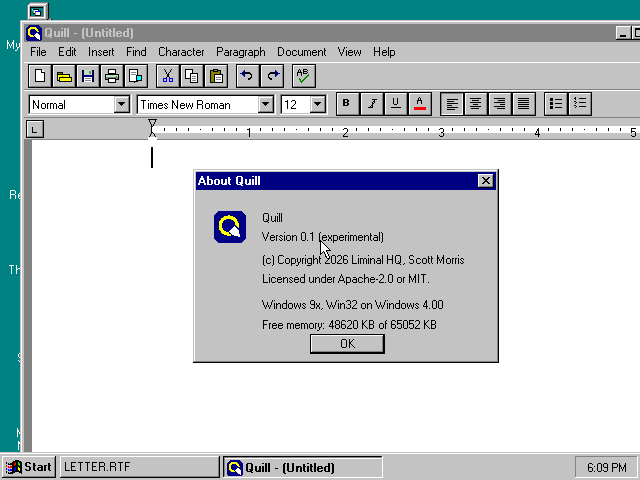
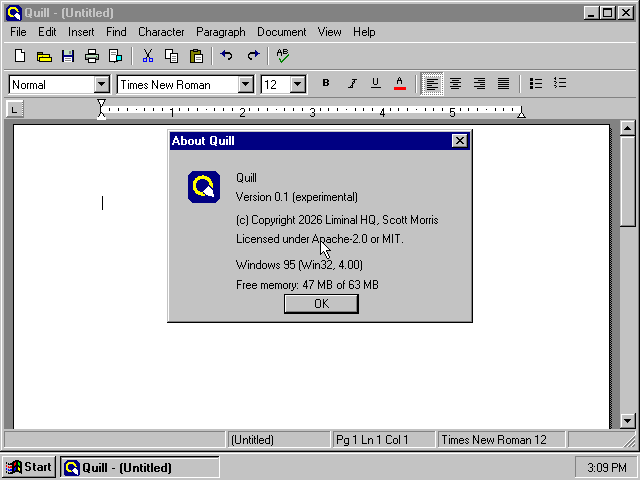
docs: retake the Windows 95 letter and About box, and update the status
**What:** `m3-letter-win95.png` and `dialog-about-win95.png` are retaken
with the current `QUILL32.EXE`: the window now fits the 640 by 480
screen, and the About box names the system as `Windows 95 (Win32, 4.00)`
instead of the old "Windows 9x" line. The README's status line no longer
says the Windows 3.x build does not edit; it says what has run.

**Evidence:** both captures are from Liminal Installer's Windows 95 test
bed (OSR2.5 in DOSBox-X) on a private Xvfb display, with the letter
opened through File > Open.

diff --git a/docs/media/README.md b/docs/media/README.md
@@ -19,7 +19,7 @@ Real captures from Quill running on its target systems, small PNGs at native siz
 | `dialog-save-as-win32-wine.png` | File > Save As in the system's Save As dialog, with the file types and the overwrite prompt. | `QUILL32.EXE` under Wine in Xvfb with no window manager (so no title bars; the Windows 95 testbed shots follow) |
 | `dialog-insert-picture-win32-wine.png` | Insert > Picture in the system's Open dialog, filtered to bitmaps and PNG pictures. | `QUILL32.EXE` under Wine in Xvfb with no window manager (so no title bars; the Windows 95 testbed shots follow) |
 | `dialog-confirm-save-win32-wine.png` | The question asked before New, Open or Exit when there are unsaved changes: a message box with Yes, No and Cancel. | `QUILL32.EXE` under Wine in Xvfb with no window manager (so no title bars; the Windows 95 testbed shots follow) |
-| `dialog-about-win95.png` | About Quill on Windows 95: the same dialog, drawn by the real Windows 95 (OSR2.5) at 640 by 480. | `QUILL32.EXE` in the Windows 95 test bed (DOSBox-X), keys and mouse driven from the host |
+| `dialog-about-win95.png` | About Quill on Windows 95: the same dialog, drawn by the real Windows 95 (OSR2.5) at 640 by 480, with the system named as `Windows 95 (Win32, 4.00)`. | `QUILL32.EXE` in the Windows 95 test bed (DOSBox-X), keys and mouse driven from the host |
 | `dialog-find-win95.png` | Find on Windows 95: the same dialog, drawn by the real Windows 95 (OSR2.5) at 640 by 480. | `QUILL32.EXE` in the Windows 95 test bed (DOSBox-X), keys and mouse driven from the host |
 | `dialog-replace-win95.png` | Replace on Windows 95: the same dialog, drawn by the real Windows 95 (OSR2.5) at 640 by 480. | `QUILL32.EXE` in the Windows 95 test bed (DOSBox-X), keys and mouse driven from the host |
 | `dialog-fonts-win95.png` | Fonts on Windows 95: the same dialog, drawn by the real Windows 95 (OSR2.5) at 640 by 480. | `QUILL32.EXE` in the Windows 95 test bed (DOSBox-X), keys and mouse driven from the host |
@@ -29,7 +29,7 @@ Real captures from Quill running on its target systems, small PNGs at native siz
 | `dialog-insert-picture-win95.png` | Insert > Picture on Windows 95: the same dialog, drawn by the real Windows 95 (OSR2.5) at 640 by 480. | `QUILL32.EXE` in the Windows 95 test bed (DOSBox-X), keys and mouse driven from the host |
 | `dialog-confirm-save-win95.png` | the unsaved-changes question on Windows 95: the same dialog, drawn by the real Windows 95 (OSR2.5) at 640 by 480. | `QUILL32.EXE` in the Windows 95 test bed (DOSBox-X), keys and mouse driven from the host |
 | `m3-toolbar-ruler-win95.png` | The two toolbar rows and the ruler on real Windows 95 at 640 by 480: the window is wider than the screen, so its right edge is off screen; the page area below the chrome is still about 300 pixels tall. | `QUILL32.EXE` in the Windows 95 test bed |
-| `m3-letter-win95.png` | The test letter in the Win32 build on Windows 95, opened with File > Open: Arial and Times New Roman from Windows, a red word, raised and lowered text and dot leaders; the window is wider than the 640 by 480 screen and the justified paragraph is not spread. | `QUILL32.EXE` in the Windows 95 test bed (DOSBox-X) |
+| `m3-letter-win95.png` | The test letter in the Win32 build on Windows 95, opened with File > Open: Arial and Times New Roman from Windows, a red word, raised and lowered text and dot leaders in a window that fits the 640 by 480 screen, with the status bar and a vertical scroll bar; the justified paragraph is not spread. | `QUILL32.EXE` in the Windows 95 test bed (DOSBox-X) |
 | `m8-spelling-win95.png` | The Spelling dialog on Windows 95 with `EN_CA.DIC` beside the program, stopped at "speling" in a typed sentence and offering spelling, spieling and spewing. | `QUILL32.EXE` in the Windows 95 test bed, keys typed from the host |
 | `m8-spelling-dos.png` | F7 in the DOS text build on the paragraph of the `m8-spelling` scenario: the Spelling box for "Teh" with eight suggestions. | `QUILLDOS.EXE` in DOSBox Staging under Xvfb, keys typed by its AUTOTYPE |
 | `m1-dos-file-on-win95.png` | `tests/golden/files/m1-edit.qld`, the file the DOS build saves in the `m1-edit` scenario (byte-identical in DOSBox), opened in the Win32 build on Windows 95. In the same run, Save As wrote `tests/docs/letter.qld` back byte for byte. | `QUILL32.EXE` in the Windows 95 test bed |

diff --git a/README.md b/README.md
@@ -14,7 +14,7 @@ One word processor for DOS, Windows 3.1 and Windows 95, written in Rust.
 
 Quill is a small rich-text word processor for the PCs of 1992 to 2000: fonts, lists, tab stops, headers and footers, pictures, a spelling checker and a real WinHelp help file, in a program that fits on a floppy and runs in 4 MB. It is built in 2026 with modern Rust and no C compiler, and one shared core drives all three versions, so a letter typed in blue-screen DOS opens with its fonts on Windows 3.1 and in LibreOffice today. Quill is the companion application to the *Cross-compiling to the past* series on the Liminal HQ blog, which explains the toolchains it is built with.
 
-> **Status:** experimental. The portable core, the `.QLD` and RTF formats, the DOS text-mode editor and the Win32 editor (for Windows 95, 98 and ME) run and are tested: the DOS build screen for screen against the host under headless DOSBox, the Win32 build the same way under Wine, with runs on Windows 95 in DOSBox-X and on a Windows ME virtual machine. The Windows 3.1 build is being brought up and does not edit yet. Nothing has run on real hardware. See [docs/progress.md](docs/progress.md) for what is shown to work. There are no releases.
+> **Status:** experimental. The portable core, the `.QLD` and RTF formats, the DOS text-mode editor and the Win32 editor (for Windows 95, 98 and ME) run and are tested: the DOS build screen for screen against the host under headless DOSBox, the Win32 build the same way under Wine, with runs on Windows 95 in DOSBox-X and on a Windows ME virtual machine. The Windows 3.x build has a native interface and has run on Windows for Workgroups 3.11 in DOSBox-X, with fewer runs behind it than the others. Nothing has run on real hardware. See [docs/progress.md](docs/progress.md) for what is shown to work. There are no releases.
 
 ## What it's for
 
